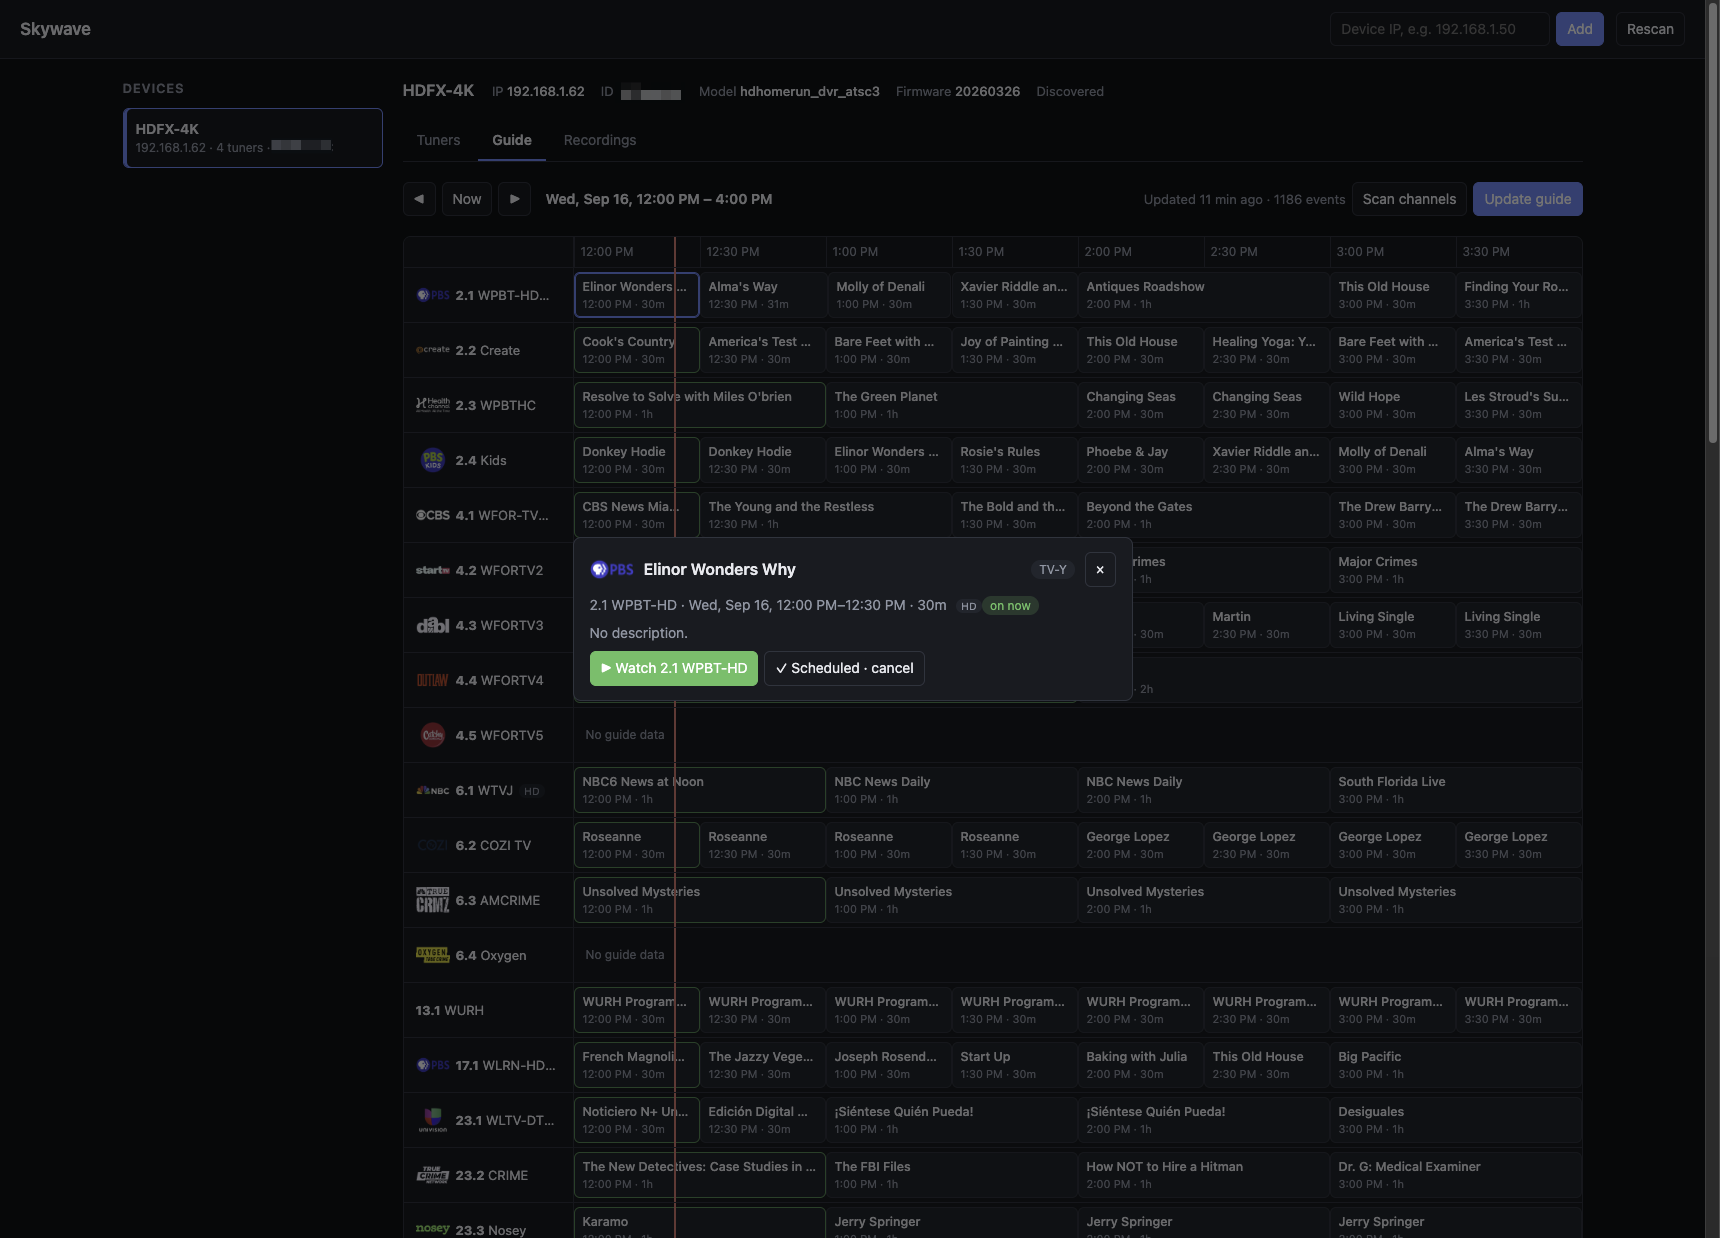
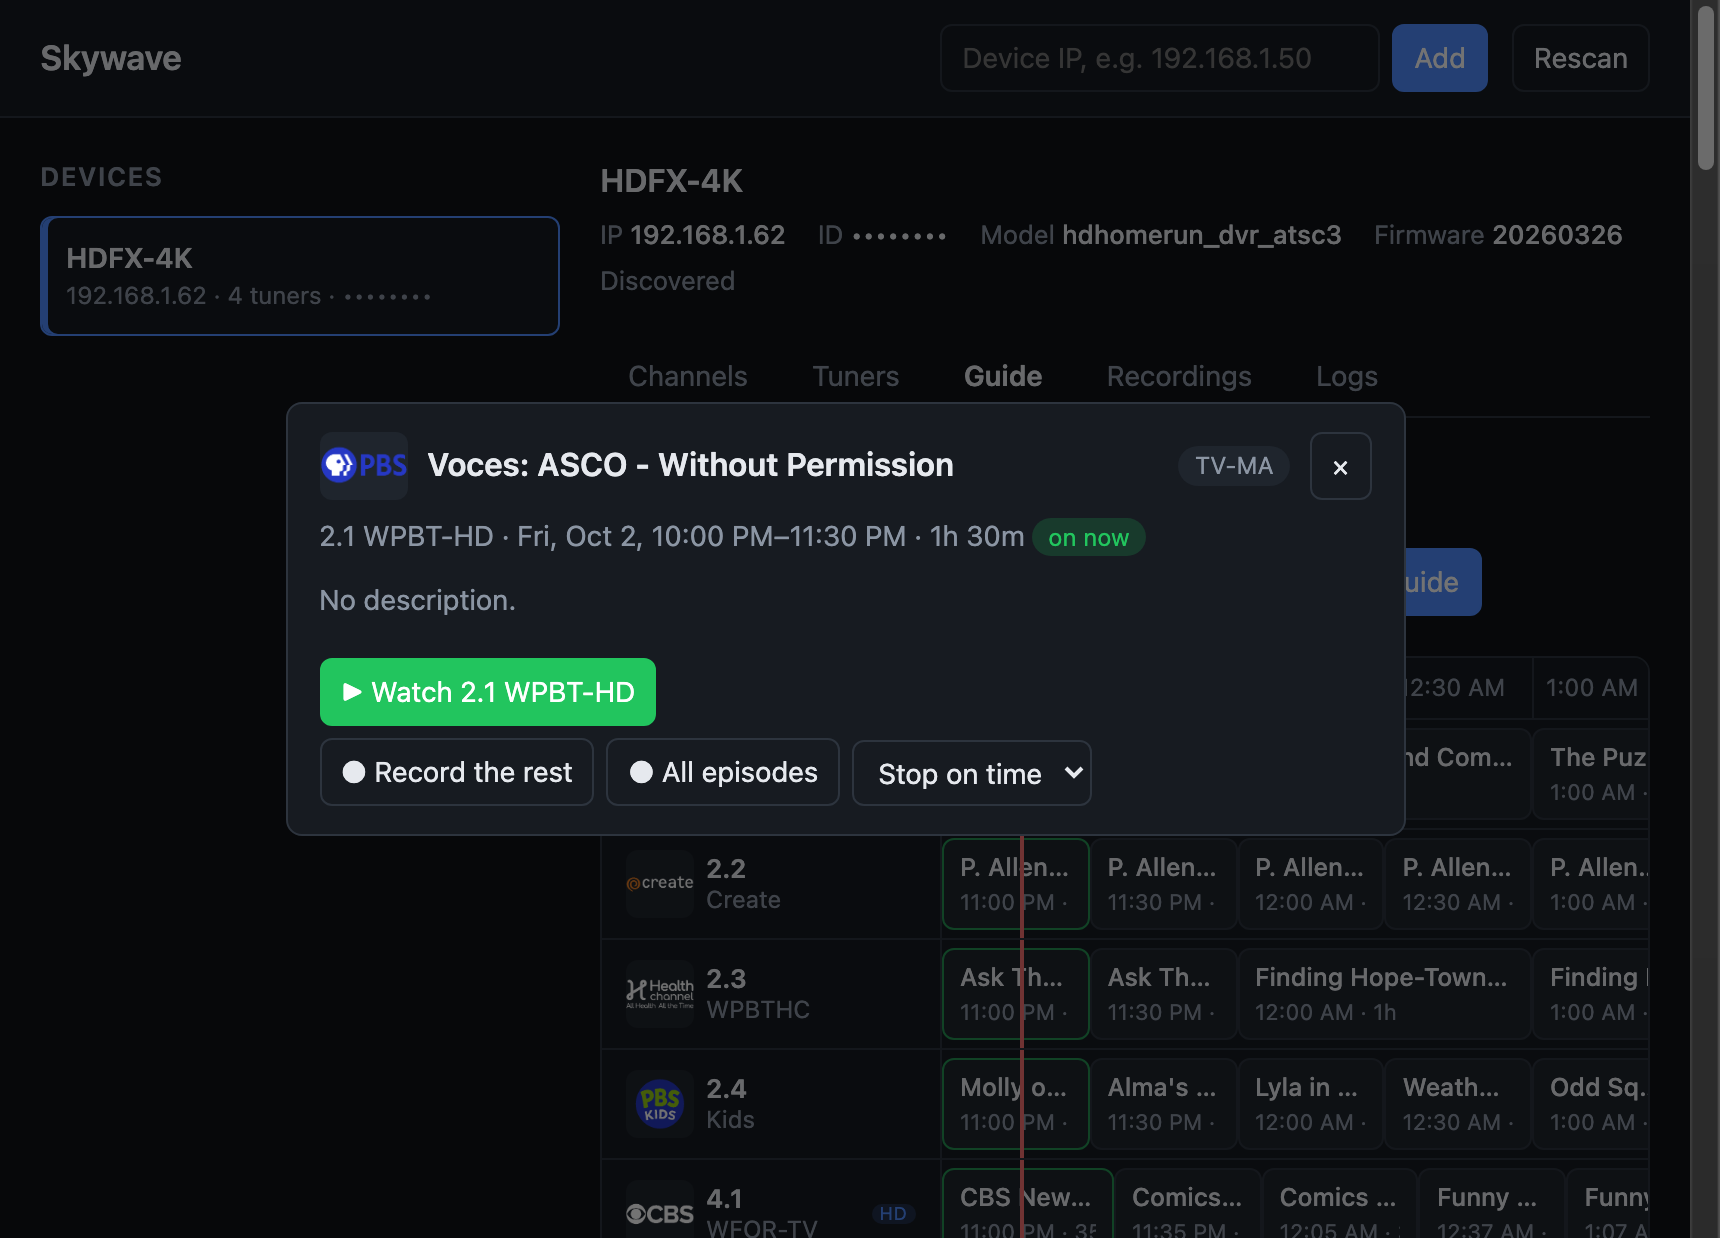
docs: Took the screenshots again, and added one of the channels tab.
Three of them were from 16 September and none showed the way in that the channels
tab now gives. The device id is covered as before; the firmware is not, since it
identifies nothing.

diff --git a/README.md b/README.md
@@ -17,6 +17,11 @@ Start it with [Docker](#docker), or run it straight from PHP.
 
 ## Screenshots
 
+Channels, with what each one is showing and how far through it is. Pick one and a tuner
+is found for it; the Tuners tab keeps every meter and field for anyone who wants them.
+
+![The channels tab, listing stations with their logos and what is on now](docs/channels.png)
+
 Watching a channel. The overlay carries the station's logo, what is on now and what is
 next, a seek bar over the rewind window, and the controls for picture size, audio track,
 captions and recording.
